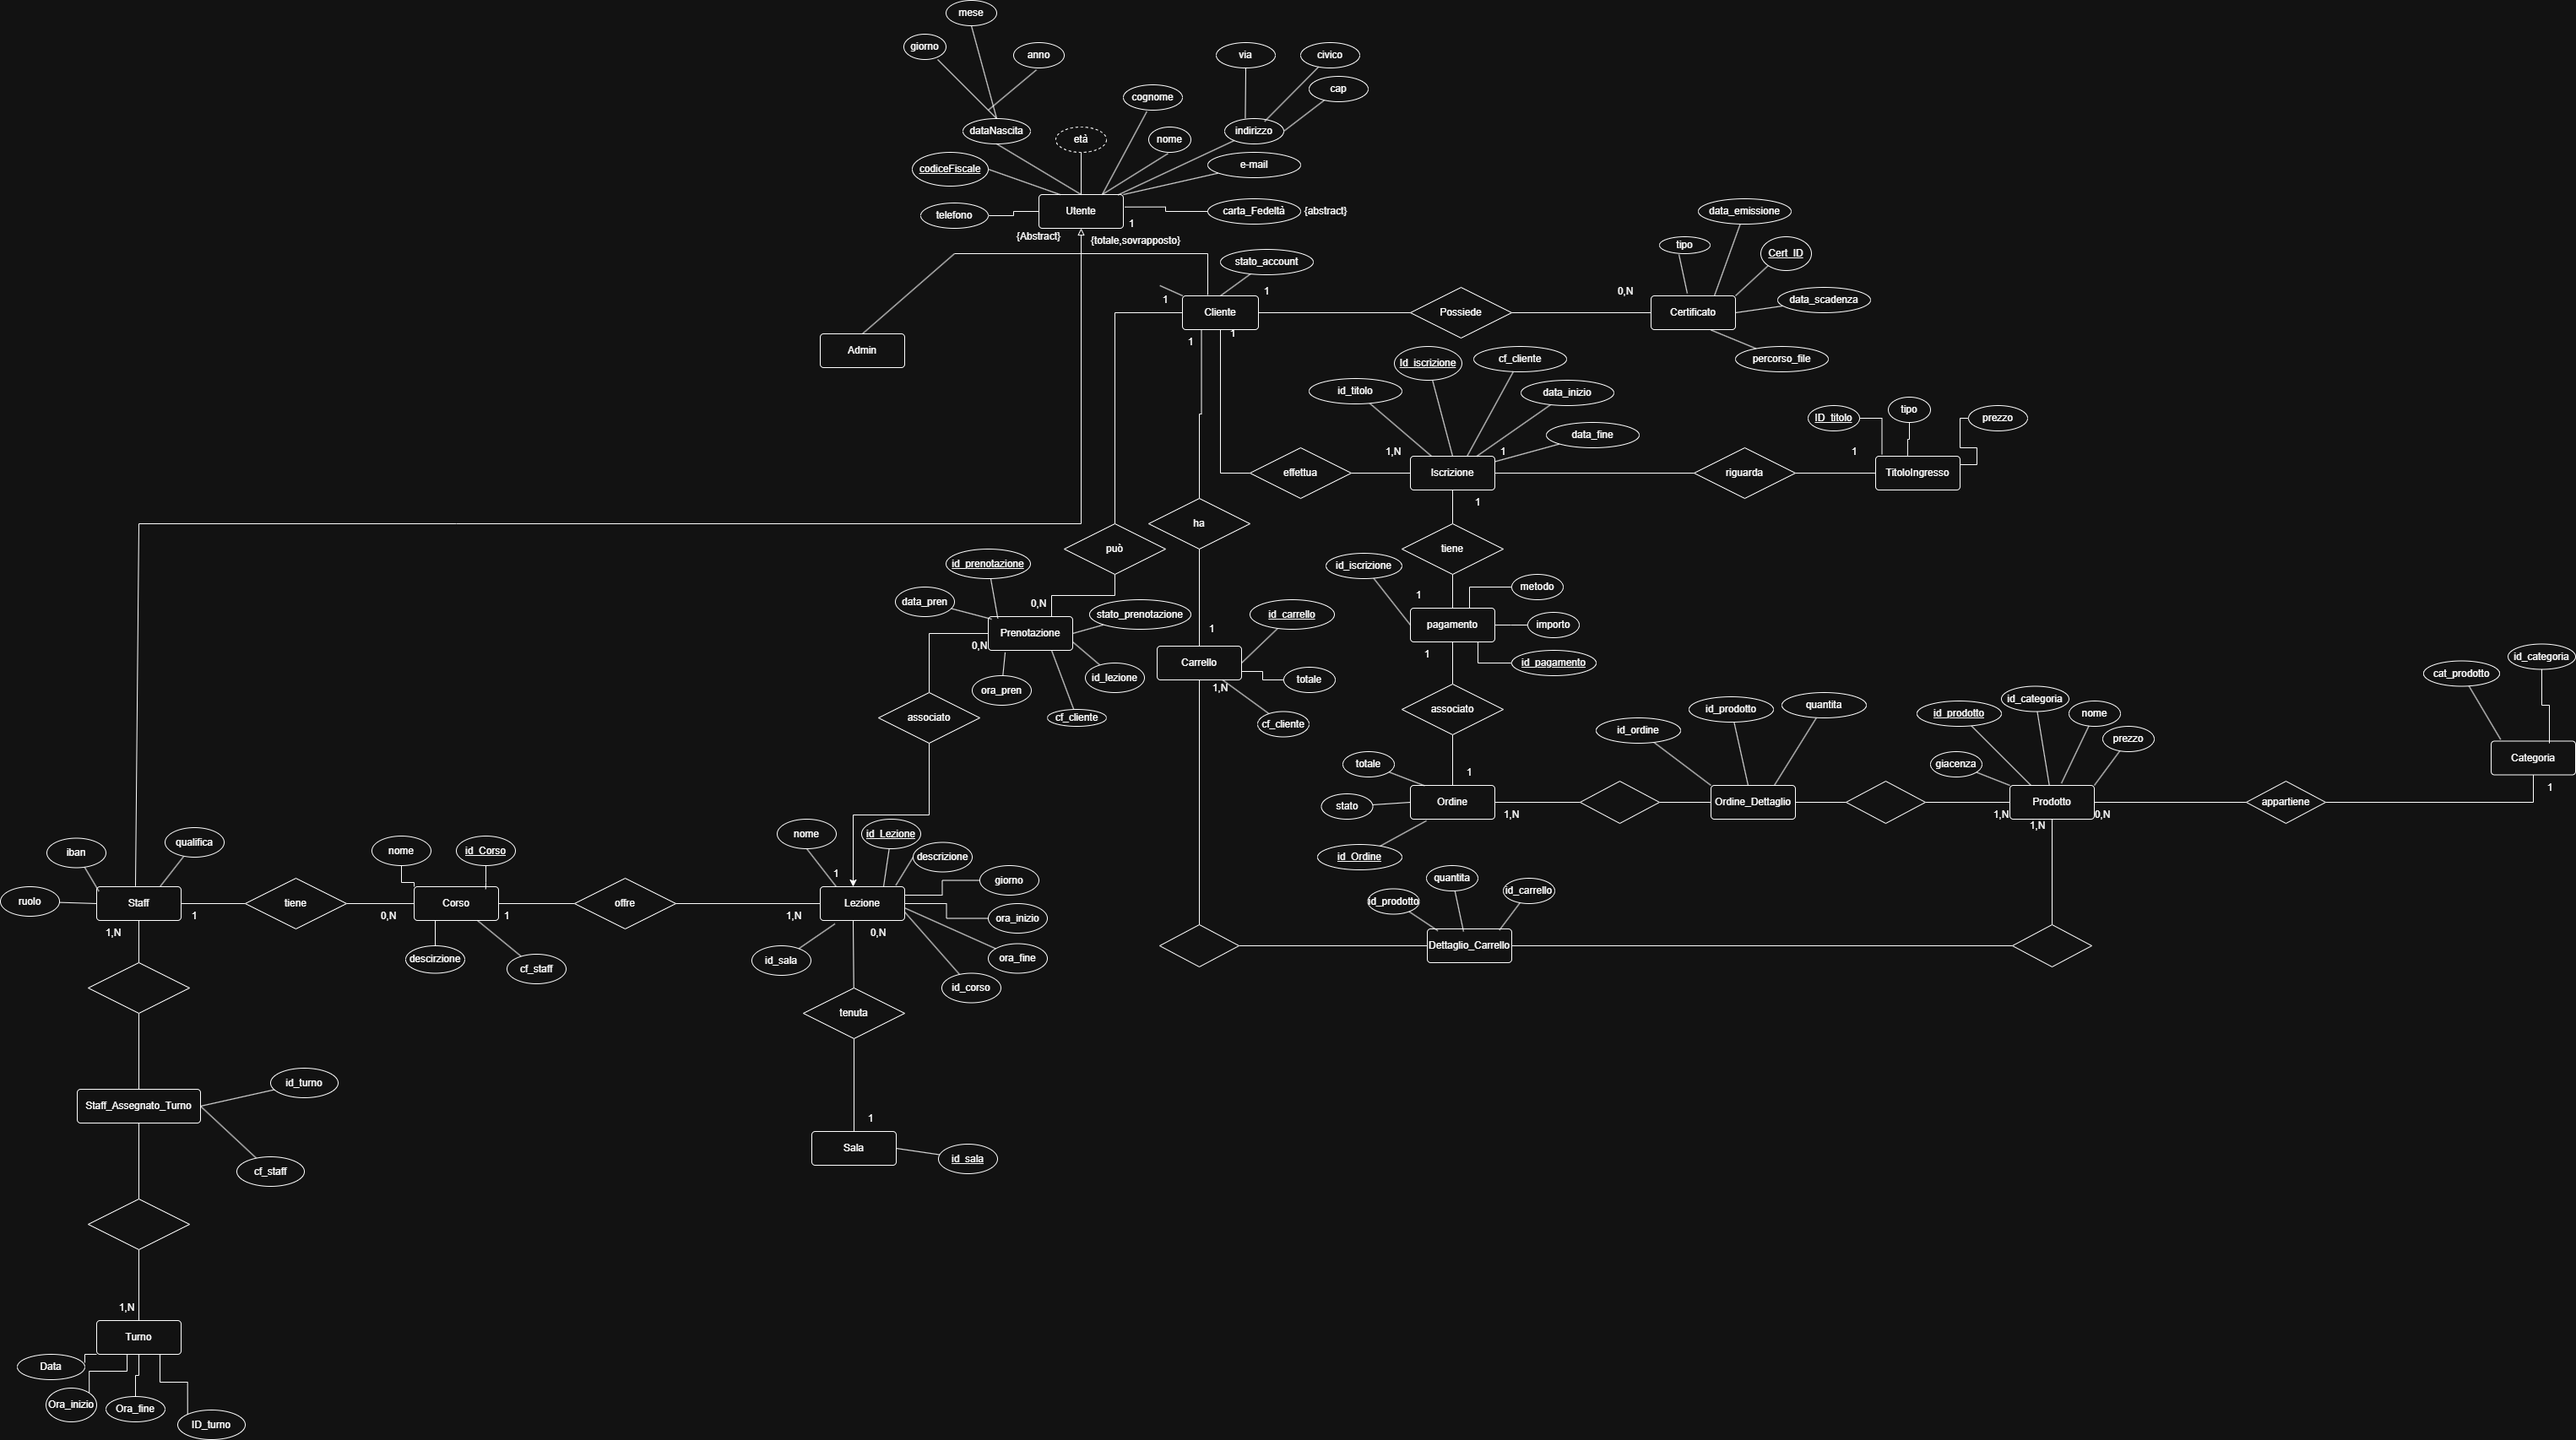
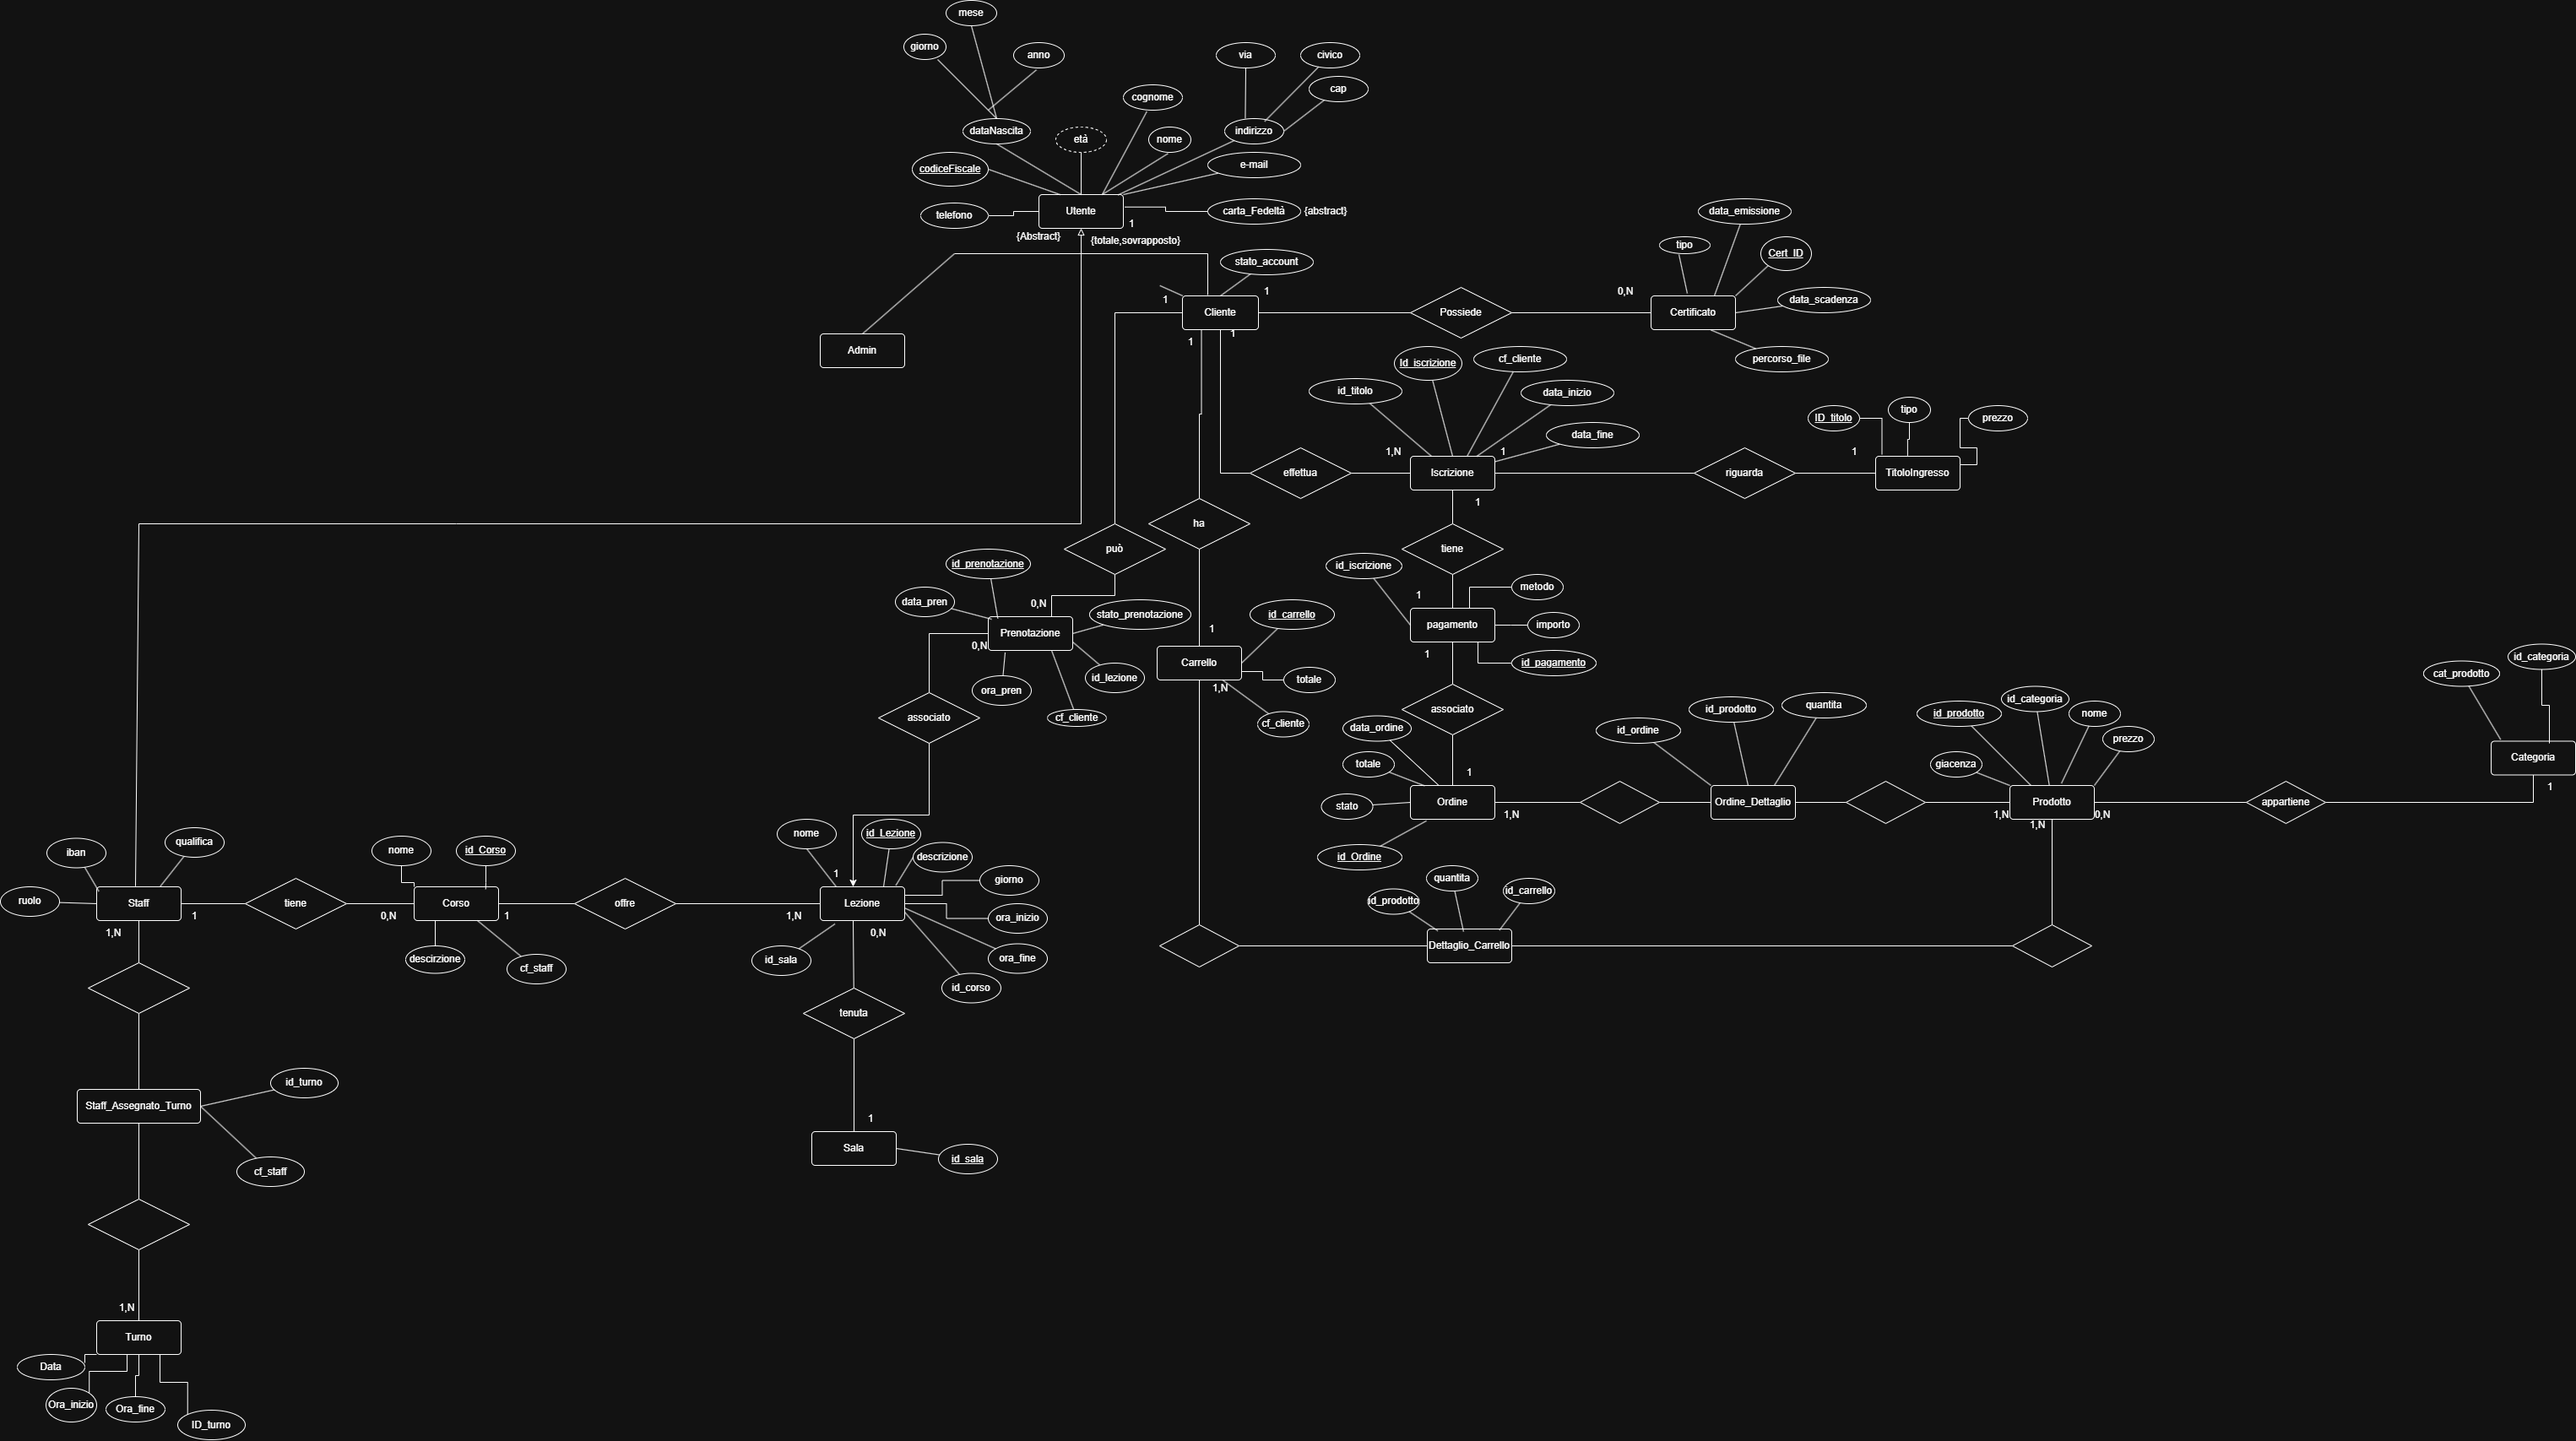
data_ordine in DB tabella ordine

diff --git a/Wellness/src/main/java/implementazioniPostgresDAO/ClienteImplementazionePostgresDAO.java b/Wellness/src/main/java/implementazioniPostgresDAO/ClienteImplementazionePostgresDAO.java
@@ -2,15 +2,13 @@ package implementazioniPostgresDAO;
 
 import dao.ClienteDAO;
 import database.ConnessioneDatabase;
-import model.commerce.Carrello;
-import model.commerce.Categoria;
-import model.commerce.Iscrizione;
-import model.commerce.Prodotto;
+import model.commerce.*;
 import model.enums.StatoAccount;
 import model.enums.StatoPrenotazione;
 import model.logistica.Lezione;
 import model.logistica.Prenotazione;
 import model.utenti.Cliente;
+import model.commerce.Ordine;
 
 import java.math.BigDecimal;
 import java.sql.Connection;
@@ -316,5 +314,13 @@ public class ClienteImplementazionePostgresDAO implements ClienteDAO
             e.printStackTrace();
         }
         return  listaPrenotazioni;
+    }
+
+    @Override
+    public List<Ordine> ottieniStoricoOrdini(Cliente cliente) {
+        List<Ordine> storicoOrdini=new ArrayList<>();
+
+        String query="SELECT" +
+                "o.id_ordine, o.data AS data_ordine, "
     }
 }

diff --git a/Wellness/src/main/java/dao/ClienteDAO.java b/Wellness/src/main/java/dao/ClienteDAO.java
@@ -31,4 +31,6 @@ public interface ClienteDAO
 
     //Elenca di tutte le prenotazioni del Cliente
     List<Prenotazione> ottieniPrenotazioniCliente(Cliente cliente);
+
+    List<model.commerce.Ordine> ottieniStoricoOrdini(Cliente cliente);
 }
